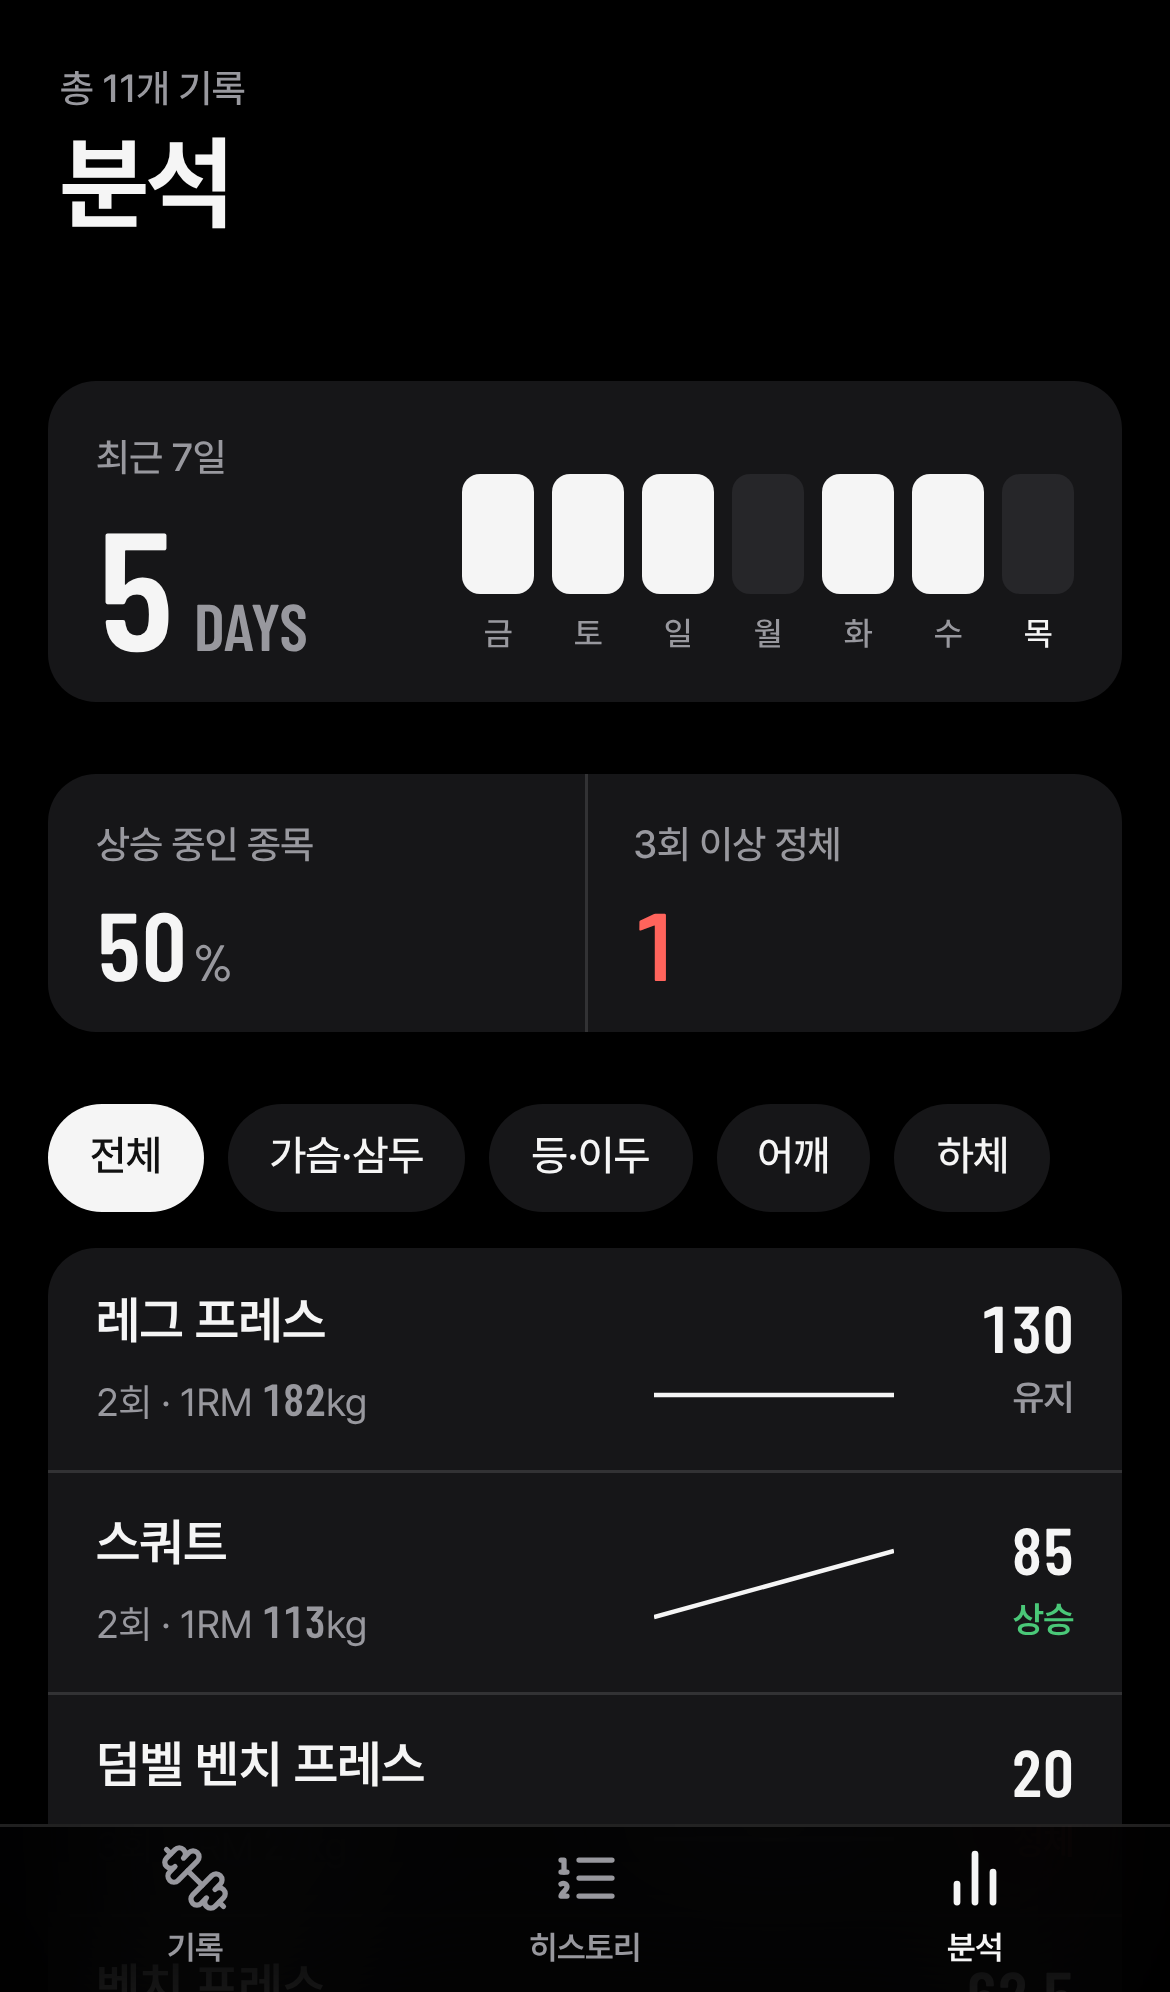
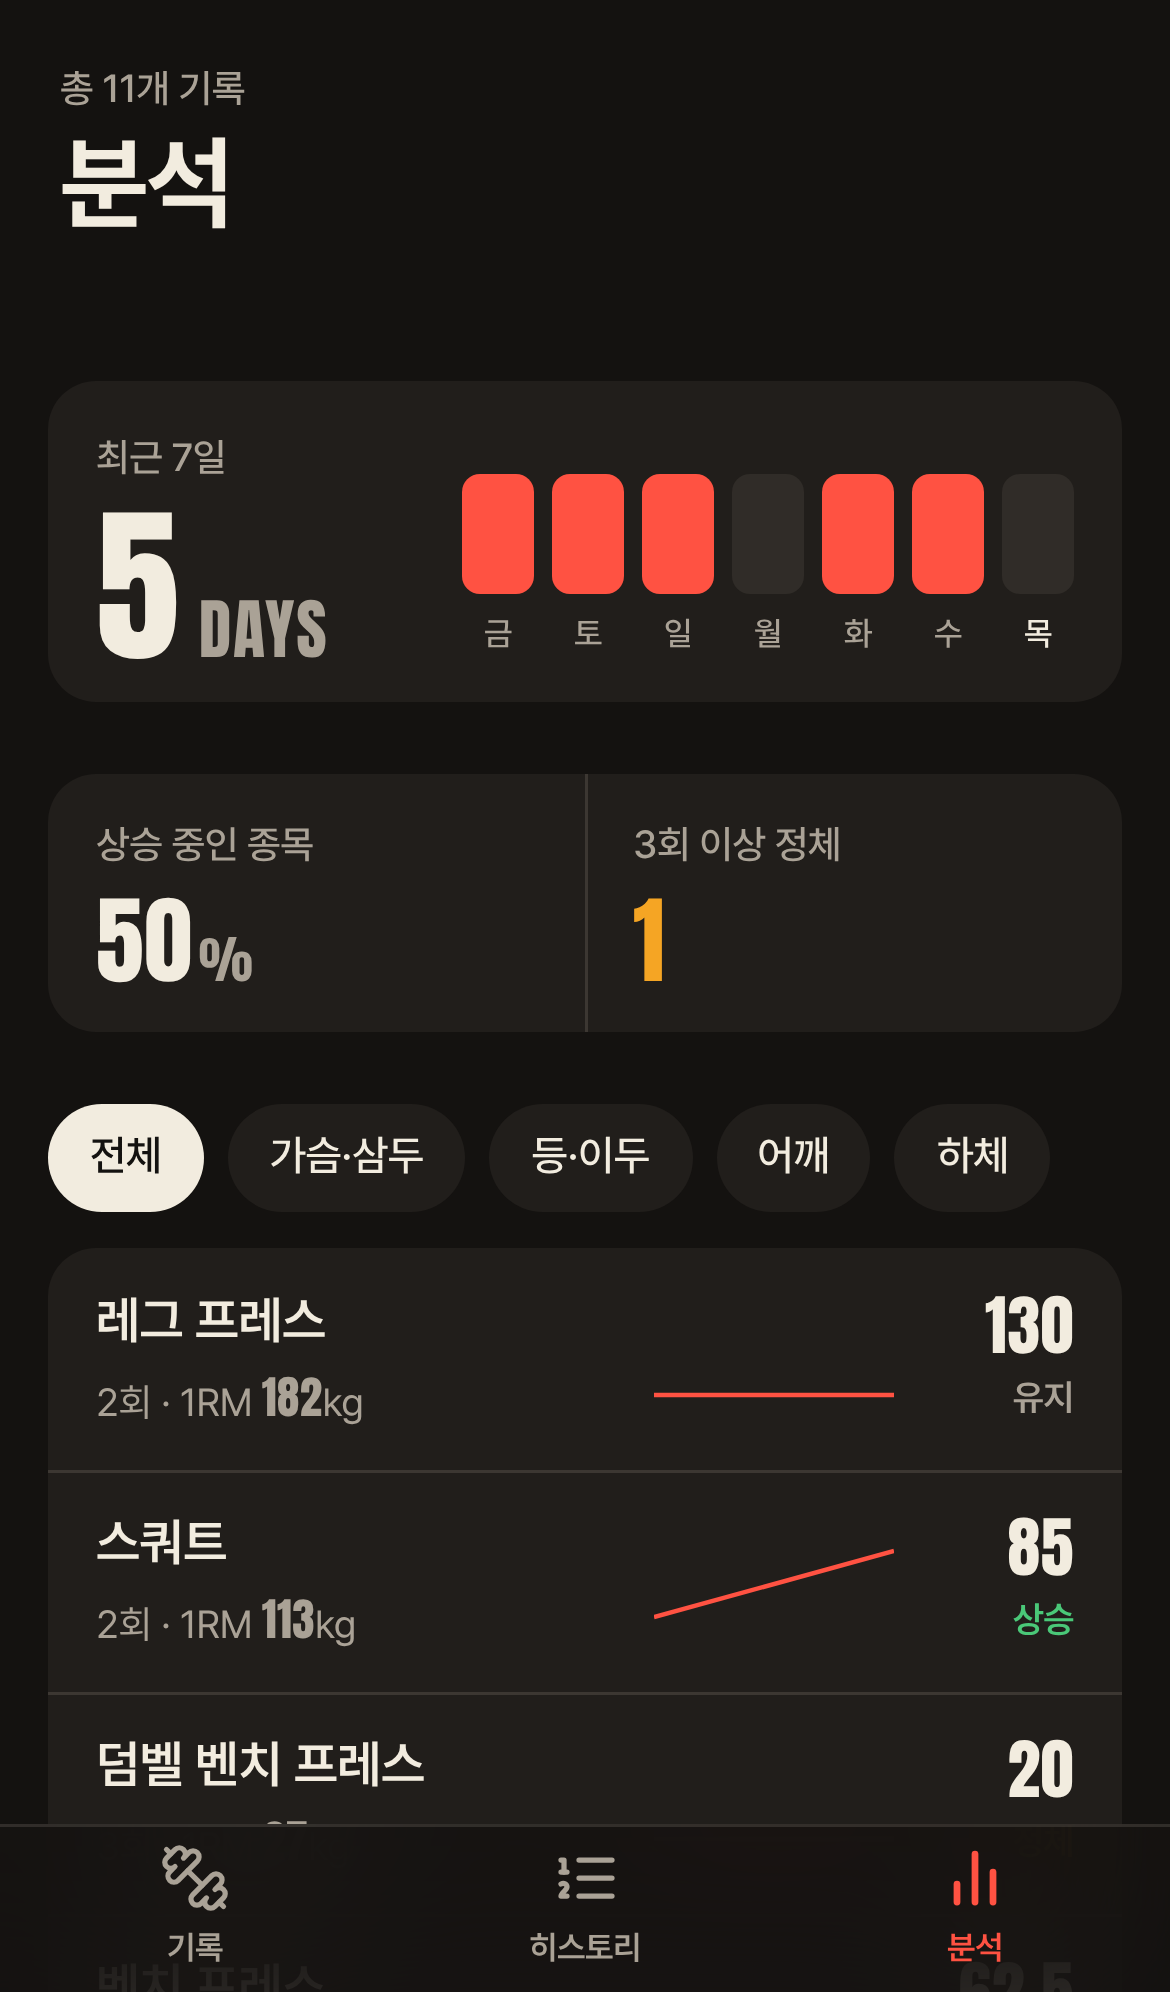
아이콘 C안(짐 태그) 적용 및 앱 컬러 리브랜딩
- 크림 바탕 + 태그 레드 액센트, 정체 상태는 앰버로 분리
- 숫자 폰트 Anton으로 통일, 스플래시를 아이콘과 같은 FIT/TER 스택으로
- iOS/안드로이드/마스커블 PNG 아이콘 재생성

Claude-Session: https://claude.ai/code/session_01Qo6dAT2y3vhN6wj4omQPxB

diff --git a/src/index.css b/src/index.css
@@ -4,34 +4,38 @@
 
 /* 시맨틱 토큰: 라이트(기본) / 다크 */
 :root {
-  --bg: 242 242 240;     /* 본(bone) 화이트 */
-  --card: 255 255 255;
-  --fill: 236 236 233;   /* 입력/세그먼트 배경 */
-  --ink: 17 17 17;
-  --onink: 255 255 255;
-  --sub: 106 106 112;    /* 4.9:1 on card */
-  --seg: 255 255 255;
-  --elev: 242 242 240;
-  --elevcard: 255 255 255;
+  --bg: 242 236 223;       /* 크림 (아이콘 바탕) */
+  --card: 255 253 248;
+  --fill: 233 226 211;
+  --ink: 20 20 20;
+  --onink: 255 253 248;
+  --sub: 107 99 88;        /* 5.6:1 on card */
+  --accent: 218 46 34;     /* 태그 레드, 흰 글자 4.6:1 */
+  --onaccent: 255 253 248;
+  --seg: 255 253 248;
+  --elev: 242 236 223;
+  --elevcard: 255 253 248;
   --up: 28 122 67;
-  --down: 196 30 30;
-  --sep: rgba(0, 0, 0, 0.09);
+  --down: 180 83 9;        /* 정체: 앰버 (레드는 브랜드 전용) */
+  --sep: rgba(60, 40, 10, 0.10);
   color-scheme: light;
 }
 @media (prefers-color-scheme: dark) {
   :root {
-    --bg: 0 0 0;
-    --card: 22 22 24;
-    --fill: 38 38 41;
-    --ink: 245 245 245;
-    --onink: 17 17 17;
-    --sub: 152 152 158;  /* 6.6:1 on card */
-    --seg: 72 72 76;
-    --elev: 28 28 30;
-    --elevcard: 44 44 46;
+    --bg: 20 18 16;
+    --card: 33 30 27;
+    --fill: 48 44 40;
+    --ink: 242 236 223;
+    --onink: 20 18 16;
+    --sub: 170 162 150;    /* 6.4:1 on card */
+    --accent: 255 82 66;
+    --onaccent: 20 18 16;  /* 6.0:1 */
+    --seg: 74 68 62;
+    --elev: 33 30 27;
+    --elevcard: 48 44 40;
     --up: 74 200 120;
-    --down: 255 100 92;
-    --sep: rgba(255, 255, 255, 0.12);
+    --down: 245 165 36;
+    --sep: rgba(255, 240, 220, 0.12);
     color-scheme: dark;
   }
 }
@@ -51,18 +55,19 @@ input[type='date']::-webkit-calendar-picker-indicator { opacity: .45; }
   .row + .row { box-shadow: inset 0 1px 0 var(--sep); }
   .caption { @apply text-[13px] font-medium text-sub; }
   .section-label { @apply px-4 pb-2 text-[13px] font-semibold text-sub; }
-  .num { @apply font-display font-semibold tabular-nums tracking-normal; }
+  .num { @apply font-display font-normal tabular-nums tracking-[0.01em]; }
   .tap { @apply transition-opacity duration-150 active:opacity-50; }
   .no-scrollbar::-webkit-scrollbar { display: none; }
 }
 
 /* 스플래시: 넓게 퍼진 자간이 모이며 나타남 */
-.splash-mark { letter-spacing: 0.22em; padding-left: 0.22em; }
-.splash-in { animation: splash-in 900ms cubic-bezier(0.22, 1, 0.36, 1) both; }
+.splash-in { animation: splash-in 700ms cubic-bezier(0.22, 1, 0.36, 1) both; }
 @keyframes splash-in {
-  from { opacity: 0; letter-spacing: 0.6em; padding-left: 0.6em; }
-  to { opacity: 1; letter-spacing: 0.22em; padding-left: 0.22em; }
+  from { opacity: 0; transform: translateY(14px); }
+  to { opacity: 1; transform: none; }
 }
+.splash-tag { animation: splash-tag 500ms 350ms cubic-bezier(0.22, 1, 0.36, 1) both; transform-origin: left; }
+@keyframes splash-tag { from { transform: scaleX(0); } to { transform: scaleX(1); } }
 .app-enter { animation: app-enter 500ms cubic-bezier(0.22, 1, 0.36, 1) both; }
 @keyframes app-enter {
   from { opacity: 0; transform: translateY(8px); }

diff --git a/src/components/Dashboard.tsx b/src/components/Dashboard.tsx
@@ -18,7 +18,7 @@ function Spark({ values, label }: { values: number[]; label: string }) {
   const span = max - min || 1;
   const pts = values.map((v, i) => `${(i / (values.length - 1)) * 100},${26 - ((v - min) / span) * 22}`).join(' ');
   return (
-    <svg role="img" aria-label={label} viewBox="0 0 100 28" preserveAspectRatio="none" className="w-20 h-7 text-ink">
+    <svg role="img" aria-label={label} viewBox="0 0 100 28" preserveAspectRatio="none" className="w-20 h-7 text-accent">
       <polyline points={pts} fill="none" stroke="currentColor" strokeWidth="1.5" strokeLinejoin="round" vectorEffect="non-scaling-stroke" />
     </svg>
   );
@@ -62,7 +62,7 @@ export default function Dashboard({ logs }: { logs: WorkoutLog[] }) {
           <div className="flex gap-1.5">
             {days.map((d, i) => (
               <div key={i} className="flex flex-col items-center gap-1.5">
-                <span className={`w-6 h-10 rounded-[6px] ${d.on ? 'bg-ink' : 'bg-fill'}`} />
+                <span className={`w-6 h-10 rounded-[6px] ${d.on ? 'bg-accent' : 'bg-fill'}`} />
                 <span className={`text-[11px] font-medium ${i === 6 ? 'text-ink' : 'text-sub'}`}>{d.label}</span>
               </div>
             ))}

diff --git a/src/components/RestTimer.tsx b/src/components/RestTimer.tsx
@@ -42,7 +42,7 @@ export default function RestTimer() {
       <div className="flex items-center gap-4 px-4 py-3">
         <div className="flex-1 min-w-0">
           <div className="caption">{done ? '휴식 끝' : running ? '휴식 중' : '휴식 타이머'}</div>
-          <div className={`num text-[40px] leading-none mt-1 ${running || done ? 'text-ink' : 'text-sub/60'}`} aria-live="off">
+          <div className={`num text-[40px] leading-none mt-1 ${done ? 'text-accent' : running ? 'text-ink' : 'text-sub/60'}`} aria-live="off">
             {mm}:{ss}
           </div>
         </div>
@@ -61,7 +61,7 @@ export default function RestTimer() {
           <RotateCcw aria-hidden className="w-5 h-5" strokeWidth={1.75} />
         </button>
       </div>
-      <div className="absolute left-0 bottom-0 h-[2px] bg-ink transition-[width] duration-1000 ease-linear" style={{ width: `${pct}%` }} />
+      <div className="absolute left-0 bottom-0 h-[3px] bg-accent transition-[width] duration-1000 ease-linear" style={{ width: `${pct}%` }} />
     </section>
   );
 }

diff --git a/src/components/Splash.tsx b/src/components/Splash.tsx
@@ -49,11 +49,13 @@ export default function Splash({ onDone }: { onDone: () => void }) {
     <div
       onClick={() => setPhase('out')}
       aria-hidden
-      className={`fixed inset-0 z-[100] grid place-items-center bg-[#111] transition-opacity duration-[450ms] ease-apple ${phase === 'out' ? 'opacity-0' : 'opacity-100'}`}
+      className={`fixed inset-0 z-[100] grid place-items-center bg-[#F2ECDF] transition-opacity duration-[450ms] ease-apple ${phase === 'out' ? 'opacity-0' : 'opacity-100'}`}
     >
-      <span className={`splash-mark font-display font-bold text-[#F2F2F0] text-[44px] leading-none ${phase === 'wait' ? 'opacity-0' : 'splash-in'}`}>
-        FITTER
-      </span>
+      <div className={`relative font-display text-[#141414] text-[96px] leading-[0.86] ${phase === 'wait' ? 'opacity-0' : 'splash-in'}`}>
+        <span className={`absolute -right-12 -top-5 w-9 h-[14px] rounded-[2px] bg-[#DA2E22] ${phase === 'wait' ? 'scale-x-0' : 'splash-tag'}`} />
+        <div>FIT</div>
+        <div>TER</div>
+      </div>
     </div>
   );
 }

diff --git a/src/components/LogForm.tsx b/src/components/LogForm.tsx
@@ -178,7 +178,7 @@ export default function LogForm({ logs, custom, editing, busy, onSave, onCancelE
           </button>
         </div>
         {tip && (
-          <p className="mt-4 px-4 border-l-2 border-ink/80 text-[14px] leading-relaxed">
+          <p className="mt-4 px-4 border-l-[3px] border-accent text-[14px] leading-relaxed">
             <span className={`font-semibold ${tip.tone === 'warn' ? 'text-down' : ''}`}>{tip.title}</span>
             <span className="text-sub"> · {tip.desc}</span>
           </p>
@@ -267,7 +267,7 @@ export default function LogForm({ logs, custom, editing, busy, onSave, onCancelE
       <button
         onClick={submit}
         disabled={!sets.length || busy}
-        className="tap w-full h-[54px] rounded-[14px] bg-ink text-onink text-[17px] font-semibold disabled:opacity-30"
+        className="tap w-full h-[54px] rounded-[14px] bg-accent text-onaccent text-[17px] font-semibold disabled:opacity-30"
       >
         {editing ? '수정 완료' : '저장'}
       </button>

diff --git a/index.html b/index.html
@@ -3,15 +3,15 @@
   <head>
     <meta charset="UTF-8" />
     <meta name="viewport" content="width=device-width, initial-scale=1.0, viewport-fit=cover" />
-    <meta name="theme-color" content="#F2F2F0" media="(prefers-color-scheme: light)" />
-    <meta name="theme-color" content="#000000" media="(prefers-color-scheme: dark)" />
+    <meta name="theme-color" content="#F2ECDF" media="(prefers-color-scheme: light)" />
+    <meta name="theme-color" content="#141210" media="(prefers-color-scheme: dark)" />
     <meta name="apple-mobile-web-app-capable" content="yes" />
     <meta name="apple-mobile-web-app-status-bar-style" content="default" />
     <link rel="icon" href="/favicon-64.png" type="image/png" />
     <link rel="apple-touch-icon" href="/apple-touch-icon.png" />
     <meta name="apple-mobile-web-app-title" content="FITTER" />
     <title>FITTER</title>
-    <style>html{background:#111}</style>
+    <style>html{background:#F2ECDF}</style>
   </head>
   <body>
     <div id="root"></div>

diff --git a/vite.config.ts b/vite.config.ts
@@ -22,14 +22,14 @@ export default defineConfig({
         name: 'FITTER - 점진적 과부하 운동일지',
         short_name: 'FITTER',
         description: '헬린이를 위한 점진적 과부하 운동일지',
-        theme_color: '#111111',
-        background_color: '#111111',
+        theme_color: '#F2ECDF',
+        background_color: '#F2ECDF',
         display: 'standalone',
         start_url: '/',
         icons: [
           { src: 'pwa-192.png', sizes: '192x192', type: 'image/png' },
           { src: 'pwa-512.png', sizes: '512x512', type: 'image/png' },
-          { src: 'pwa-512.png', sizes: '512x512', type: 'image/png', purpose: 'maskable' },
+          { src: 'pwa-maskable-512.png', sizes: '512x512', type: 'image/png', purpose: 'maskable' },
         ],
       },
     }),

diff --git a/tailwind.config.js b/tailwind.config.js
@@ -14,13 +14,15 @@ export default {
         ink: v('ink'),
         sub: v('sub'),
         onink: v('onink'),
+        accent: v('accent'),
+        onaccent: v('onaccent'),
         up: v('up'),
         down: v('down'),
         sep: 'var(--sep)',
       },
       fontFamily: {
         sans: ['Pretendard Variable', 'Pretendard', '-apple-system', 'BlinkMacSystemFont', 'system-ui', 'sans-serif'],
-        display: ['"Barlow Condensed"', 'Pretendard Variable', 'system-ui', 'sans-serif'],
+        display: ['Anton', 'Pretendard Variable', 'system-ui', 'sans-serif'],
       },
       transitionTimingFunction: { apple: 'cubic-bezier(0.25, 0.1, 0.25, 1)' },
     },

diff --git a/src/App.tsx b/src/App.tsx
@@ -124,7 +124,7 @@ export default function App() {
                 key={id}
                 onClick={() => go(id)}
                 aria-current={on ? 'page' : undefined}
-                className={`tap flex flex-col items-center justify-center gap-1 text-[11px] font-semibold transition-colors duration-200 ${on ? 'text-ink' : 'text-sub'}`}
+                className={`tap flex flex-col items-center justify-center gap-1 text-[11px] font-semibold transition-colors duration-200 ${on ? 'text-accent' : 'text-sub'}`}
               >
                 <Icon aria-hidden className="w-6 h-6" strokeWidth={on ? 2.25 : 1.75} />
                 {label}

diff --git a/src/main.tsx b/src/main.tsx
@@ -1,9 +1,7 @@
 import React from 'react';
 import ReactDOM from 'react-dom/client';
 import App from './App';
-import '@fontsource/barlow-condensed/500.css';
-import '@fontsource/barlow-condensed/600.css';
-import '@fontsource/barlow-condensed/700.css';
+import '@fontsource/anton/400.css';
 import 'pretendard/dist/web/variable/pretendardvariable-dynamic-subset.css';
 import './index.css';
 
